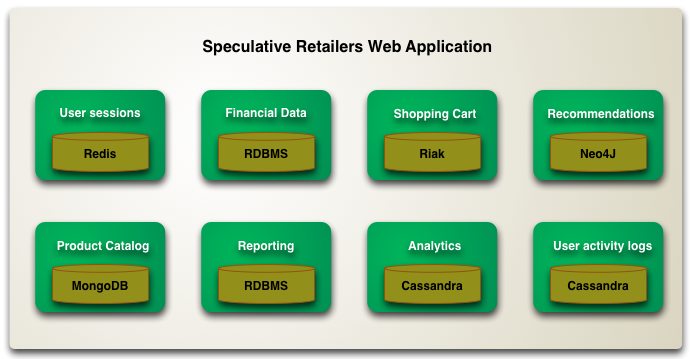
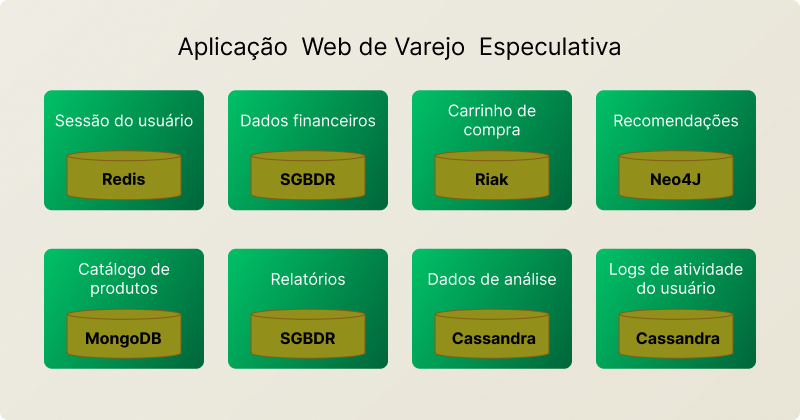
fix(trabalhos relacionados): contextualização com redes sociais, correção e tradução das imagens

diff --git a/sections/textual/4-trabalhos-relacionados.tex b/sections/textual/4-trabalhos-relacionados.tex
@@ -1,21 +1,18 @@
 \section{Trabalhos relacionados}
 
-A gestão da variedade de dados, um desafio inerente a aplicações modernas e sistemas de big data, tem sido objeto de extensiva pesquisa e diversas abordagens arquitetônicas.
-Diversas abordagens foram propostas para lidar com este problema.
+O desafio de gerenciar a heterogeneidade de dados -- um problema fundamental em aplicações contemporâneas como redes sociais -- tem impulsionado a evolução das arquiteturas de persistência. A necessidade de armazenar e processar eficientemente formatos distintos, como textos, imagens e relacionamentos complexos entre entidades, levou ao desenvolvimento de múltiplas estratégias, que serão exploradas neste capítulo.
+
+Este capítulo, portanto, revisa a literatura sobre as principais arquiteturas de persistência de dados, com o objetivo de contextualizar o problema e fundamentar a análise comparativa de desempenho no caso de uso específico de uma rede social de nicho voltado para um contexto cristão de orações, respostas e interações entre os usuários, que será o foco deste trabalho.
 
 \subsection{O fim dos SGBDs generalistas e a ascensão da persistência poliglota}
-Inicialmente, os SGBDs (principalmente os relacionais) eram usados de forma generalista, centralizando todos os dados, independentemente do formato, em um único banco de dados.
-
-Essa abordagem, apesar de extremamente popular entre os anos 80 e 2000, se mostrou ineficiente para lidar com a variedade de dados, como discutido por \textcite{StonebrakerAndCetintemel2005}, que criticaram a ideia dominante chamada por eles de \textit{``one size fits all''} (``um tamanho serve para todos'', tradução livre) como algo que já não fazia mais sentido.
-
-Neste mesmo artigo, os autores argumentam que a solução para o problema da variedade de dados seria o uso de múltiplos SGBDs especializados, cada um lidando com um tipo específico de dado.
+Inicialmente, os SGBDs (principalmente os relacionais) eram usados de forma generalista, centralizando todos os dados, independentemente do formato, em um único banco de dados. Essa abordagem, apesar de extremamente popular entre os anos 80 e 2000, se mostrou ineficiente para lidar com a variedade de dados, como discutido por \textcite{StonebrakerAndCetintemel2005}, que criticaram a ideia dominante chamada por eles de \textit{``one size fits all''} (``um tamanho serve para todos'', tradução livre) como algo que já não fazia mais sentido. Neste mesmo artigo, os autores argumentam que a solução para o problema da variedade de dados seria o uso de múltiplos SGBDs especializados, cada um lidando com um tipo específico de dado.
 
 Essa solução, posteriormente nomeada como persistência poliglota \cite{Leberknight2011}, é amplamente adotada atualmente, com diversas soluções especializadas para diferentes tipos de dados, continuando a usar SGBDs relacionais para dados estruturados, mas integrando bancos de dados NoSQL para dados não estruturados, bancos de dados em grafos para dados relacionais complexos, entre outros.
 \begin{figure}[H]
     \centering
     \caption{Exemplo de arquitetura de persistência poliglota}
-    \includegraphics[width=0.5\linewidth]{images/Fowler2011-polyglot-persistence.png}\\
-    \fonteimagem{Fonte: \textcite{Fowler2011}}
+    \includegraphics[width=0.75\linewidth]{images/Fowler2011-polyglot-persistence.png}\\
+    \fonteimagem{Fonte: Adaptado de \textcite{Fowler2011}}
     \label{fig:Fowler2011-polyglot-persistence}
 \end{figure}
 
@@ -49,7 +46,7 @@ Dessa forma, os bancos de dados multi-modelo buscam oferecer a flexibilidade e a
 \begin{figure}[H]
     \centering
     \caption{Resultados comparativos entre bancos de dados multi-modelo (ArangoDB, OrientDB e Couchbase) e banco de dados especializado (MongoDB)}
-    \includegraphics[width=0.5\linewidth]{images/PluciennikAndZgorzatek2017-multimodel-dbs-comparison.png}\\
+    \includegraphics[width=0.75\linewidth]{images/PluciennikAndZgorzatek2017-multimodel-dbs-comparison.png}\\
     \fonteimagem{Fonte: \textcite{PluciennikAndZgorzatek2017}}
     \label{fig:PluciennikAndZgorzatek2017-multimodel-dbs-comparison}
 \end{figure}
@@ -72,4 +69,8 @@ A partir desses resultados, \textcite{Taipalus2024} conclui que a escolha do SGB
 
 Observando essas mesmas dificuldades e as substanciais diferenças entre bancos de dados, \textcite{ZhangAndLu2021} propuseram uma metodologia de comparação entre bancos de dados dedicada para casos em que há uma grande variedade de dados (\textit{``UniBench''}).
 
-Para isso, os autores definiram um conjunto de dados, métricas e cargas de trabalho para simular do mundo real, assim fornecendo uma base consistente e reprodutível para comparar o desempenho de diferentes SGBDs.    
+Para isso, os autores definiram um conjunto de dados, métricas e cargas de trabalho que simulam uma aplicação realista, com operações que incluem os diversos tipos de dados armazenados, assim fornecendo uma base consistente e reprodutível para comparar o desempenho de diferentes SGBDs.
+
+Diante do exposto, fica evidente que as redes sociais, com sua inerente heterogeneidade de dados, representam um caso de uso ideal para a aplicação e comparação das arquiteturas de sistemas heterogêneos de bancos de dados e de bancos de dados multimodelo. A revisão da literatura indica que, embora ambas as abordagens sejam viáveis, a escolha entre elas envolve um \textit{trade-off} fundamental entre a performance de sistemas especializados e a simplicidade de gestão de sistemas integrados.
+
+Portanto, este trabalho se propõe a analisar empiricamente essas duas abordagens, utilizando como caso de uso uma rede social desenvolvida do zero e aplicada uma metodologia de benchmark, inspirada nos princípios do UniBench, possibilitando que informações cruciais sobre o desempenho, a escalabilidade e a complexidade de implementação sejam obtidas, contribuindo assim para a compreensão das melhores práticas na gestão de dados heterogêneos em aplicações modernas.
